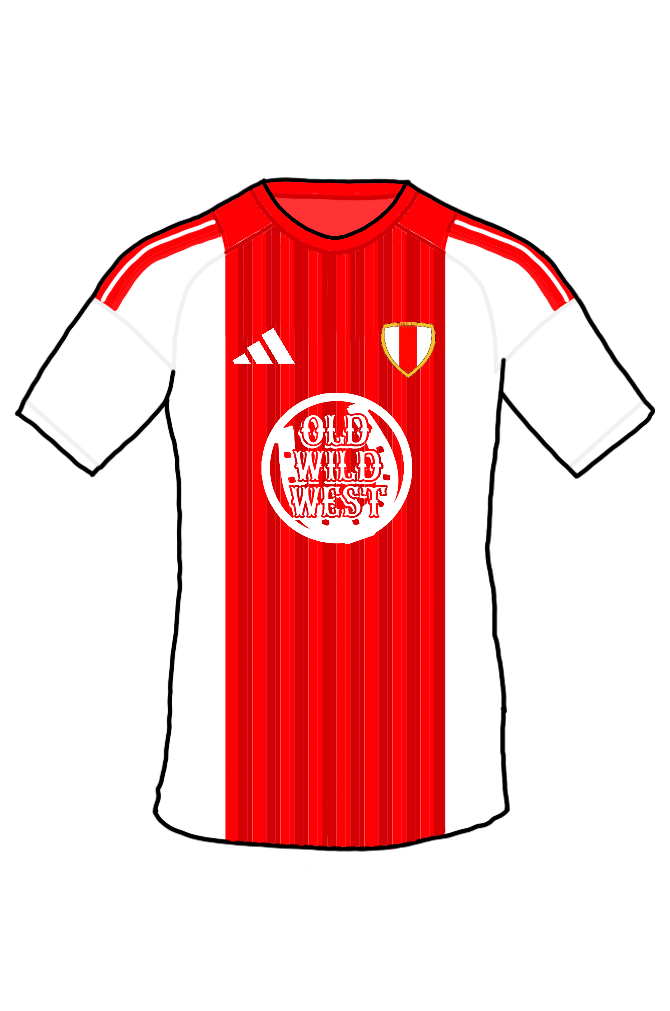
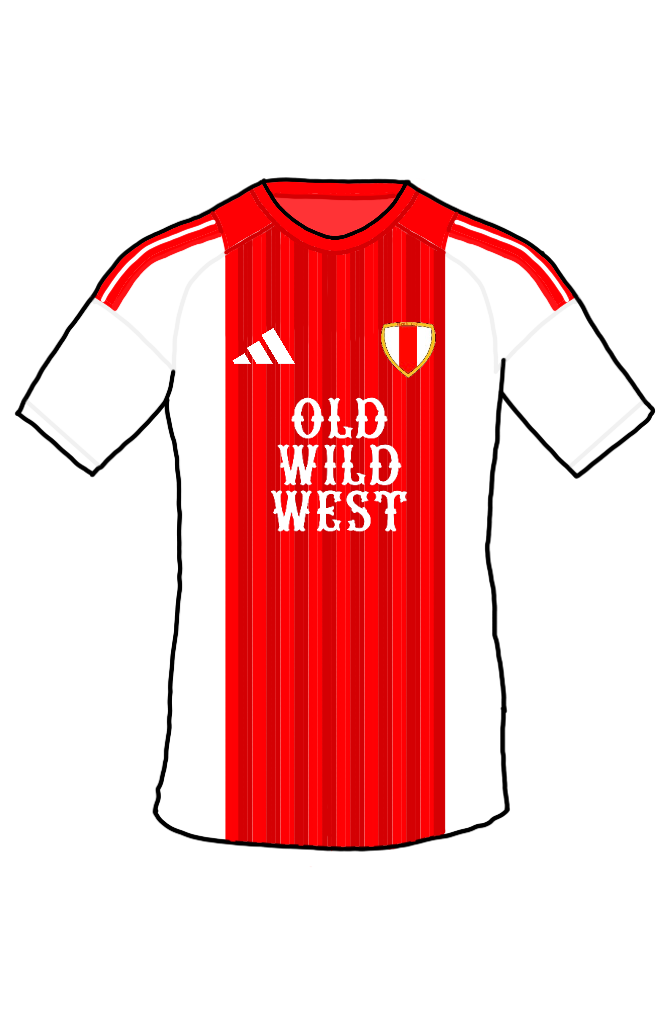
Nuove divise e fix

Changed region(s): [[0.3881, 0.368, 0.6269, 0.5519]]

diff --git a/lib/app/campionato/campionato_home_page.dart b/lib/app/campionato/campionato_home_page.dart
@@ -2248,17 +2248,16 @@ class _CampionatoHomePageState extends State<CampionatoHomePage>
 
         final vincitori = vincitoriSnapshot.data ?? [];
 
-        return FutureBuilder<List<Competizione>>(
-          future: _competizioniFuture,
-          builder: (context, competizioniSnapshot) {
-            if (competizioniSnapshot.connectionState ==
-                ConnectionState.waiting) {
+        return FutureBuilder<List<Object>>(
+          future: Future.wait([_competizioniFuture, _nazionaliFuture]),
+          builder: (context, snapshot) {
+            if (snapshot.connectionState == ConnectionState.waiting) {
               return Center(
                 child: CircularProgressIndicator(color: Colors.blueAccent),
               );
             }
 
-            if (competizioniSnapshot.hasError) {
+            if (snapshot.hasError) {
               return Center(
                 child: Text(
                   'Errore nel caricamento delle competizioni',
@@ -2267,9 +2266,11 @@ class _CampionatoHomePageState extends State<CampionatoHomePage>
               );
             }
 
-            final competizioni = (competizioniSnapshot.data ?? [])
-                .where((c) => c.attiva == true)
-                .toList();
+            final competizioni =
+                ((snapshot.data?[0] as List<Competizione>?) ?? [])
+                    .where((c) => c.attiva == true)
+                    .toList();
+            final nazionali = (snapshot.data?[1] as List<Nazionale>?) ?? [];
 
             if (competizioni.isEmpty) {
               return Center(
@@ -2286,6 +2287,8 @@ class _CampionatoHomePageState extends State<CampionatoHomePage>
               itemCount: competizioni.length,
               itemBuilder: (context, index) {
                 final competizione = competizioni[index];
+                final bool isNazionaleComp =
+                    competizione.id == 17 || competizione.id == 18;
 
                 // Trova il vincitore per questa competizione
                 final vincitore = vincitori.firstWhere(
@@ -2296,7 +2299,27 @@ class _CampionatoHomePageState extends State<CampionatoHomePage>
                   ),
                 );
 
-                final hasVincitore = vincitore.idSquadraVincitrice != 0;
+                // Per le competizioni riservate alle nazionali il vincitore
+                // va dedotto dall'albo d'oro (trofei) delle nazionali, dato
+                // che idSquadraVincitrice non viene valorizzato in quel caso.
+                Nazionale? nazionaleVincitrice;
+                if (isNazionaleComp) {
+                  for (final n in nazionali) {
+                    final haVintoQuestaEdizione = n.trofei.any(
+                      (t) =>
+                          t.idCompetizione == competizione.id &&
+                          t.anni.contains(widget.campionato),
+                    );
+                    if (haVintoQuestaEdizione) {
+                      nazionaleVincitrice = n;
+                      break;
+                    }
+                  }
+                }
+
+                final hasVincitore = isNazionaleComp
+                    ? nazionaleVincitrice != null
+                    : vincitore.idSquadraVincitrice != 0;
 
                 return Card(
                   margin: EdgeInsets.only(bottom: 16),
@@ -2364,11 +2387,21 @@ class _CampionatoHomePageState extends State<CampionatoHomePage>
                                       size: 24,
                                     ),
                                     SizedBox(width: 12),
-                                    _buildSquadraLogo(vincitore),
+                                    isNazionaleComp
+                                        ? SquadraLogoWidget(
+                                            codSquadra:
+                                                nazionaleVincitrice!.codNazione,
+                                            nomeNazionale:
+                                                nazionaleVincitrice.nome,
+                                            size: 40,
+                                          )
+                                        : _buildSquadraLogo(vincitore),
                                     SizedBox(width: 12),
                                     Expanded(
                                       child: Text(
-                                        vincitore.nomeSquadra,
+                                        isNazionaleComp
+                                            ? nazionaleVincitrice!.nome
+                                            : vincitore.nomeSquadra,
                                         style: TextStyle(
                                           fontSize: 16,
                                           fontWeight: FontWeight.bold,

diff --git a/lib/app/nazionali/nazionale_page.dart b/lib/app/nazionali/nazionale_page.dart
@@ -9,6 +9,7 @@ import 'package:ligaduck/app/service/models/giocatore.dart';
 import 'package:ligaduck/app/service/models/nazionale.dart';
 import 'package:ligaduck/app/service/models/partita.dart';
 import 'package:ligaduck/app/service/models/squadra.dart';
+import 'package:ligaduck/app/service/models/trofeo.dart';
 import 'package:ligaduck/app/service/nazionali_provider.dart';
 import 'package:ligaduck/app/service/squadre_provider.dart';
 import 'package:ligaduck/app/nazionali/add_formazione_nazionale_page.dart';
@@ -864,8 +865,39 @@ class _NazionalePageState extends State<NazionalePage> {
 
   // ─── Palmarès ─────────────────────────────────────────────────────────────
 
+  /// Filtra e ricalcola i trofei tenendo solo le edizioni precedenti al
+  /// campionato attualmente visionato (es. se si è nel campionato 43,
+  /// mostra solo i trofei vinti prima del 43).
+  List<Trofeo> _trofeiFinoAdEdizionePrecedente(List<Trofeo> trofei) {
+    final annoAttuale = int.tryParse(widget.campionato);
+    if (annoAttuale == null) return trofei;
+
+    final risultato = <Trofeo>[];
+    for (final trofeo in trofei) {
+      final anniFiltrati = trofeo.anni.where((anno) {
+        final annoInt = int.tryParse(anno);
+        return annoInt == null || annoInt < annoAttuale;
+      }).toList();
+
+      if (anniFiltrati.isEmpty) continue;
+
+      risultato.add(
+        Trofeo(
+          anni: anniFiltrati,
+          quantita: anniFiltrati.length,
+          nome: trofeo.nome,
+          cod: trofeo.cod,
+          idCompetizione: trofeo.idCompetizione,
+        ),
+      );
+    }
+    return risultato;
+  }
+
   Widget _buildPalmares(bool isWide, double screenWidth) {
-    final trofei = (_nazionale ?? widget.nazionale).trofei;
+    final trofei = _trofeiFinoAdEdizionePrecedente(
+      (_nazionale ?? widget.nazionale).trofei,
+    );
     if (trofei.isEmpty) {
       return Center(
         child: Text(

diff --git a/lib/app/competizione/competizione_home_page.dart b/lib/app/competizione/competizione_home_page.dart
@@ -290,6 +290,55 @@ class _CompetizioneHomePageState extends State<CompetizioneHomePage>
 
   // Ottiene i colori della squadra campione per i fuochi d'artificio
   Future<List<Color>> _getChampionColors() async {
+    final bool isNazionaleComp =
+        widget.competizione.id == 17 || widget.competizione.id == 18;
+
+    if (isNazionaleComp) {
+      try {
+        final nazionaliProvider = Provider.of<NazionaliProvider>(
+          context,
+          listen: false,
+        );
+        final nazionali = await nazionaliProvider.fetchNazionali(
+          widget.campionato,
+        );
+
+        // La nazionale vincitrice va dedotta dal proprio albo d'oro (trofei):
+        // idCampione/idNazioneCampione non vengono valorizzati per le
+        // competizioni riservate alle nazionali (id 17/18).
+        Nazionale? campione;
+        for (final n in nazionali) {
+          final haVintoQuestaEdizione = n.trofei.any(
+            (t) =>
+                t.idCompetizione == widget.competizione.id &&
+                t.anni.contains(widget.campionato),
+          );
+          if (haVintoQuestaEdizione) {
+            campione = n;
+            break;
+          }
+        }
+
+        if (campione == null &&
+            widget.competizione.idNazioneCampione.isNotEmpty) {
+          campione = nazionali.firstWhere(
+            (n) => n.id == widget.competizione.idNazioneCampione,
+            orElse: () => nazionali.first,
+          );
+        }
+
+        if (campione == null || campione.colori.isEmpty) {
+          return [Colors.amber, Colors.yellow, Colors.orange];
+        }
+
+        return campione.colori.map((colorName) {
+          return _parseColor(colorName);
+        }).toList();
+      } catch (e) {
+        return [Colors.amber, Colors.yellow, Colors.orange];
+      }
+    }
+
     if (widget.competizione.idCampione == 0) {
       return [Colors.amber, Colors.yellow, Colors.orange];
     }

diff --git a/lib/app/squadre/squadre_page.dart b/lib/app/squadre/squadre_page.dart
@@ -6,6 +6,7 @@ import 'package:ligaduck/app/models/partita/partita_formazione_model.dart';
 import 'package:ligaduck/app/service/giocatori_provider.dart';
 import 'package:ligaduck/app/service/models/giocatore.dart';
 import 'package:ligaduck/app/service/models/squadra.dart';
+import 'package:ligaduck/app/service/models/trofeo.dart';
 import 'package:ligaduck/app/service/models/partita.dart';
 import 'package:ligaduck/app/service/competizioni_provider.dart';
 import 'package:ligaduck/app/service/models/competizione.dart';
@@ -495,10 +496,39 @@ class _SquadrePageState extends State<SquadrePage> {
   List<dynamic>? getTrofeiSquadra(Squadra squadra) {
     final currentSquadra = _squadra ?? widget.squadra;
     if (currentSquadra.trofei != null) {
-      return currentSquadra.trofei;
+      return _trofeiFinoAdEdizionePrecedente(currentSquadra.trofei!);
     } else {
       return null;
     }
+  }
+
+  /// Filtra e ricalcola i trofei tenendo solo le edizioni precedenti al
+  /// campionato attualmente visionato (es. se si è nel campionato 43,
+  /// mostra solo i trofei vinti prima del 43).
+  List<Trofeo> _trofeiFinoAdEdizionePrecedente(List<Trofeo> trofei) {
+    final annoAttuale = int.tryParse(widget.campionato);
+    if (annoAttuale == null) return trofei;
+
+    final risultato = <Trofeo>[];
+    for (final trofeo in trofei) {
+      final anniFiltrati = trofeo.anni.where((anno) {
+        final annoInt = int.tryParse(anno);
+        return annoInt == null || annoInt < annoAttuale;
+      }).toList();
+
+      if (anniFiltrati.isEmpty) continue;
+
+      risultato.add(
+        Trofeo(
+          anni: anniFiltrati,
+          quantita: anniFiltrati.length,
+          nome: trofeo.nome,
+          cod: trofeo.cod,
+          idCompetizione: trofeo.idCompetizione,
+        ),
+      );
+    }
+    return risultato;
   }
 
   void getGiocatoriSquadra(Squadra squadra) {

diff --git a/lib/app/service/models/competizione.dart b/lib/app/service/models/competizione.dart
@@ -6,6 +6,7 @@ class Competizione {
   final String? classifica;
   final List<String> colori;
   final int idCampione;
+  final String idNazioneCampione;
   final bool conclusa;
   final List<Girone>? gironi;
   final Map<String, dynamic>? fasi;
@@ -18,6 +19,7 @@ class Competizione {
     this.classifica,
     required this.colori,
     this.idCampione = 0,
+    this.idNazioneCampione = '',
     this.conclusa = false,
     this.gironi,
     this.fasi,
@@ -32,6 +34,7 @@ class Competizione {
       classifica: json['classifica'],
       colori: json['colori'] != null ? List<String>.from(json['colori']) : [],
       idCampione: json['idCampione'] ?? 0,
+      idNazioneCampione: json['idNazioneCampione'] ?? '',
       conclusa: json['conclusa'] ?? false,
       gironi: json['gironi'] != null
           ? (json['gironi'] as List)
@@ -53,6 +56,7 @@ class Competizione {
       'classifica': classifica,
       'colori': colori,
       'idCampione': idCampione,
+      'idNazioneCampione': idNazioneCampione,
       'conclusa': conclusa,
       'gironi': gironi?.map((g) => g.toJson()).toList(),
       'fasi': fasi,

diff --git a/lib/app/models/campionato/campionato_match_model.dart b/lib/app/models/campionato/campionato_match_model.dart
@@ -68,13 +68,16 @@ Widget buildCampionatoMatch(
 
   if (isPhaseE && !isAndata && model.partita.salvata) {
     // Conta rigori a tempo regolamentare (minuto 121)
+    // Per le partite tra club l'evento porta idTeam, per le nazionali idNazionale
     int rigoriHome121 = model.partita.tabellino
         .where(
           (e) =>
               e.minuto == 121 &&
               e.codAzione == 'rig' &&
               e.esitoRigore == true &&
-              e.idTeam == model.partita.idTeamHome,
+              (e.idTeam == model.partita.idTeamHome ||
+                  (e.idNazionale != null &&
+                      e.idNazionale == model.partita.idNazionaleHome)),
         )
         .length;
 
@@ -84,7 +87,9 @@ Widget buildCampionatoMatch(
               e.minuto == 121 &&
               e.codAzione == 'rig' &&
               e.esitoRigore == true &&
-              e.idTeam == model.partita.idTeamAway,
+              (e.idTeam == model.partita.idTeamAway ||
+                  (e.idNazionale != null &&
+                      e.idNazionale == model.partita.idNazionaleAway)),
         )
         .length;
 
